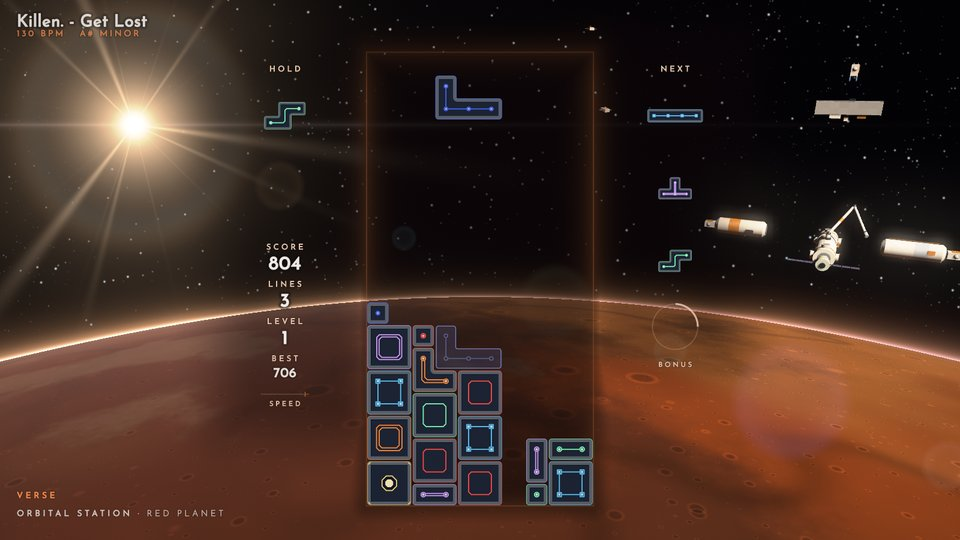
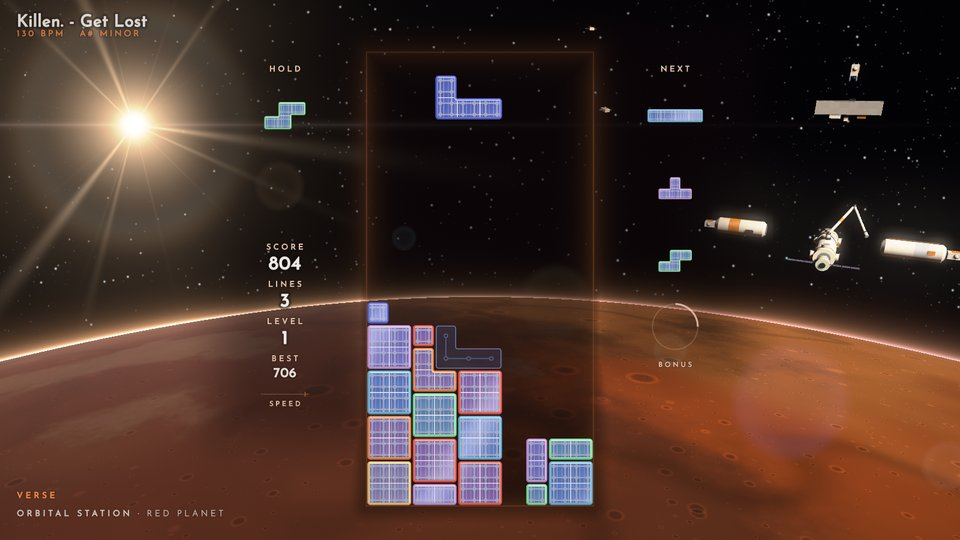
ORBITAL STATION: the solar arrays (look 2) the game's own blocks; README picture with them
Claude-Session: https://claude.ai/code/session_01TRpCVe8qgHvBr5qwovmpX7

diff --git a/src/universes/orbital/orbital.hpp b/src/universes/orbital/orbital.hpp
@@ -180,7 +180,7 @@ private:
     struct CellInst { float a[4], b[4], c[4], d[4]; };
     std::vector<CellInst> cells_;
     int ids_[22][10] = {};
-    int blockStyle_ = 0; // REFALL_ORBITAL_BLOCK: 0 the circuit tiles, 1 hull modules, 2 solar arrays, 3 energy cores, 4 brighter tiles
+    int blockStyle_ = 2; // REFALL_ORBITAL_BLOCK (2, the solar arrays, the default): 0 the circuit tiles, 1 hull modules, 2 solar arrays, 3 energy cores, 4 brighter tiles
     int nextId_ = 1;
     void syncIds(const Game& g);
     void cell(float x, float y, float half, int mask, int type, float seed, float alpha, int mode, float erase, float glow);
